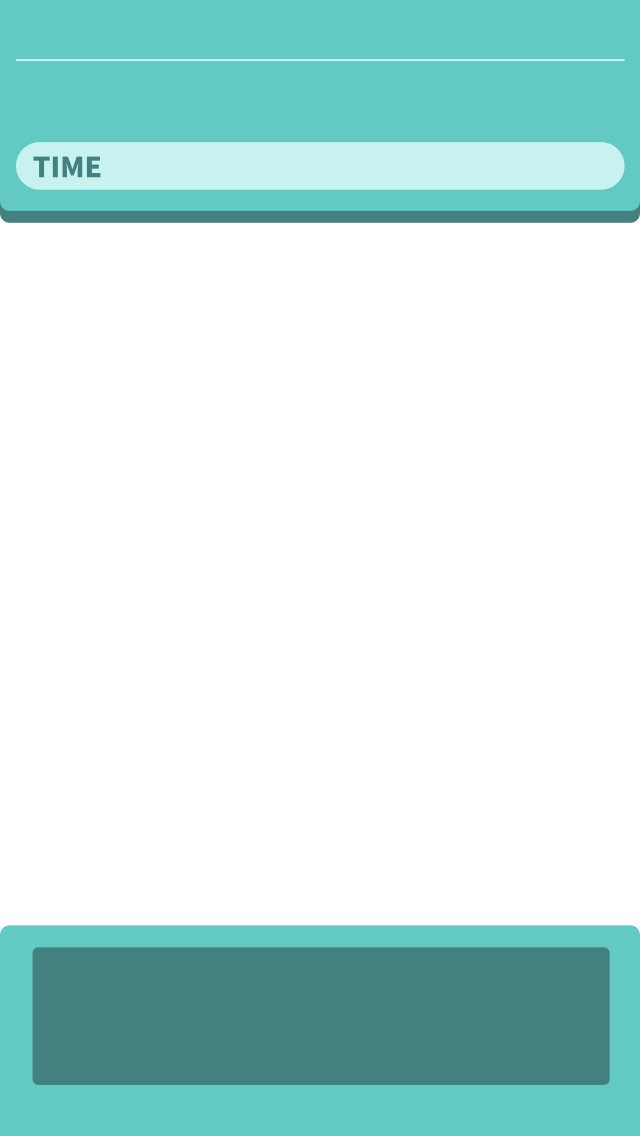
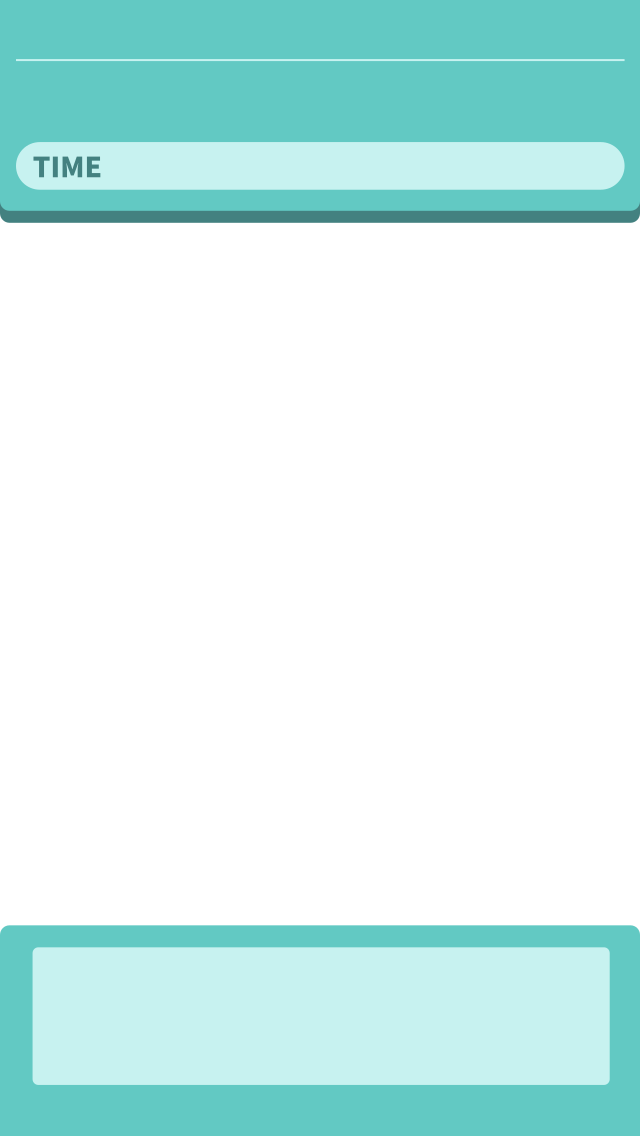
ブロック画像追加

Changed region(s): [[0.0312, 0.8319, 0.9688, 0.9551]]

diff --git a/unicks2/game.min.js b/unicks2/game.min.js
@@ -3098,7 +3098,7 @@ d?cc.ONE:cc.SRC_ALPHA;e.dst=cc.ONE_MINUS_SRC_ALPHA;break;case a.BlendMode.Additi
 b=b.updateWorldVertices(d,e);var r=this._worldTransform;d=r.a;e=r.b;for(var t=r.c,u=r.d,s=r.tx,r=r.ty,w=this._node.vertexZ,v=0;6>v;v++){var x=4>v?v%3:v-2,A=b[8*x],z=b[8*x+1],y=A*e+z*u+r,C=b[8*x+5]*p<<24|b[8*x+4]*k<<16|b[8*x+3]*n<<8|b[8*x+2]*m;f[h]=A*d+z*t+s;f[h+1]=y;f[h+2]=w;g[h+3]=C;f[h+4]=b[8*x+6];f[h+5]=b[8*x+7];h+=6}if(this._node._debugSlots)return f=a.RegionAttachment,[cc.p(b[f.X1],b[f.Y1]),cc.p(b[f.X2],b[f.Y2]),cc.p(b[f.X3],b[f.Y3]),cc.p(b[f.X4],b[f.Y4])]};b._uploadMeshAttachmentData=function(a,
 b,e,f,g,h){var k=this._worldTransform,m=k.a,n=k.b,p=k.c,r=k.d,t=k.tx,k=k.ty,u=this._node.vertexZ;a=a.updateWorldVertices(b,e);var s=this._displayedColor;b=s.r;e=s.g;for(var s=s.b,w=this._displayedOpacity,v=0,x=a.length;v<x;v+=8){var A=a[v],z=a[v+1],y=A*p+z*r+k,C=a[v+5]*w<<24|a[v+4]*s<<16|a[v+3]*e<<8|a[v+2]*b;f[h]=A*m+z*n+t;f[h+1]=y;f[h+2]=u;g[h+3]=C;f[h+4]=a[v+6];f[h+5]=a[v+7];h+=6}}})();cc.pool={_pool:{},_releaseCB:function(){this.release()},_autoRelease:function(a){var b=void 0===a._running?!1:!a._running;cc.director.getScheduler().schedule(this._releaseCB,a,0,0,0,b)},putInPool:function(a){var b=a.constructor.prototype.__pid;if(!b){var c={writable:!0,enumerable:!1,configurable:!0};c.value=ClassManager.getNewID();Object.defineProperty(a.constructor.prototype,"__pid",c)}this._pool[b]||(this._pool[b]=[]);a.retain&&a.retain();a.unuse&&a.unuse();this._pool[b].push(a)},hasObject:function(a){return(a=
 this._pool[a.prototype.__pid])&&0!==a.length?!0:!1},removeObject:function(a){var b=a.constructor.prototype.__pid;if(b&&(b=this._pool[b]))for(var c=0;c<b.length;c++)a===b[c]&&(a.release&&a.release(),b.splice(c,1))},getFromPool:function(a){if(this.hasObject(a)){var b=this._pool[a.prototype.__pid],c=Array.prototype.slice.call(arguments);c.shift();b=b.pop();b.reuse&&b.reuse.apply(b,c);cc.sys.isNative&&b.release&&this._autoRelease(b);return b}},drainAllPools:function(){for(var a in this._pool)for(var b=
-0;b<this._pool[a].length;b++){var c=this._pool[a][b];c.release&&c.release()}this._pool={}}};var res={HelloWorld_png:"res/HelloWorld.png",rect:"res/rect.png",round_rect:"res/round_rect.png",block:"res/block.png",circle:"res/circle.png",frame:"res/frame.png",star:"res/star.png",shine:"res/shine.png",keifont:"res/fonts/keifont.ttf"},g_resources=[],i;for(i in res)g_resources.push(res[i]);var HelloWorldLayer=cc.Layer.extend({sprite:null,ctor:function(){this._super();var a=cc.winSize,b=new cc.LabelTTF("Hello World","Arial",38);b.x=a.width/2;b.y=a.height/2+200;this.addChild(b,5);this.sprite=new cc.Sprite(res.HelloWorld_png);this.sprite.attr({x:a.width/2,y:a.height/2});this.addChild(this.sprite,0);return!0}}),HelloWorldScene=cc.Scene.extend({onEnter:function(){this._super();var a=new HelloWorldLayer;this.addChild(a)}});(function(){window.Util=function(){function a(){}a.setItem=function(a,c){return cc.sys.localStorage.setItem(a,c.toString())};a.getItem=function(a){a=cc.sys.localStorage.getItem(a);return null!=a&&""!==a?a:null};return a}()}).call(this);(function(){window.ui={};window.ui.Button=ccui.Scale9Sprite.extend({ctor:function(a,b,c,d,e){this.text=a;this.imgPath=b;this.onTouchBegin=null!=c?c:function(){};this.onTouchEnd=null!=d?d:function(){};null==e&&(e=!0);this._super(this.imgPath);this.enabled=!0;this.setCascadeOpacityEnabled(!0);this.enableClickAnimation=!0;this.mustCallOnTouchEnd=!1;this.attachEvent(e);this.fontSize=28;this.label=new ui.Label(this.text,this.fontSize);this.label.setPosition(this.width/2,this.height/2);this.addChild(this.label);
+0;b<this._pool[a].length;b++){var c=this._pool[a][b];c.release&&c.release()}this._pool={}}};var res={HelloWorld_png:"res/HelloWorld.png",rect:"res/rect.png",round_rect:"res/round_rect.png",block:"res/block.png",circle:"res/circle.png",frame:"res/frame.png",star:"res/star.png",shine:"res/shine.png",block_sun:"res/block_sun.png",block_moon:"res/block_moon.png",block_star:"res/block_star.png",block_heart:"res/block_heart.png",keifont:"res/fonts/keifont.ttf"},g_resources=[],i;for(i in res)g_resources.push(res[i]);var HelloWorldLayer=cc.Layer.extend({sprite:null,ctor:function(){this._super();var a=cc.winSize,b=new cc.LabelTTF("Hello World","Arial",38);b.x=a.width/2;b.y=a.height/2+200;this.addChild(b,5);this.sprite=new cc.Sprite(res.HelloWorld_png);this.sprite.attr({x:a.width/2,y:a.height/2});this.addChild(this.sprite,0);return!0}}),HelloWorldScene=cc.Scene.extend({onEnter:function(){this._super();var a=new HelloWorldLayer;this.addChild(a)}});(function(){window.Util=function(){function a(){}a.setItem=function(a,c){return cc.sys.localStorage.setItem(a,c.toString())};a.getItem=function(a){a=cc.sys.localStorage.getItem(a);return null!=a&&""!==a?a:null};return a}()}).call(this);(function(){window.ui={};window.ui.Button=ccui.Scale9Sprite.extend({ctor:function(a,b,c,d,e){this.text=a;this.imgPath=b;this.onTouchBegin=null!=c?c:function(){};this.onTouchEnd=null!=d?d:function(){};null==e&&(e=!0);this._super(this.imgPath);this.enabled=!0;this.setCascadeOpacityEnabled(!0);this.enableClickAnimation=!0;this.mustCallOnTouchEnd=!1;this.attachEvent(e);this.fontSize=28;this.label=new ui.Label(this.text,this.fontSize);this.label.setPosition(this.width/2,this.height/2);this.addChild(this.label);
 return this.autoResize()},autoResize:function(){var a,b;this.w_offset=20;this.h_offset=10;b=this.text.length*this.label.getFontSize()+2*this.w_offset;a=this.label.getFontSize()+2*this.h_offset;return this.setContentSize(b,a)},setAutoResize:function(a){return this.autoResize=a},setFontSize:function(a,b){null==b&&(b=!0);this.label.setFontSize(a);b&&this.autoResize();return this.label.setPosition(this.width/2,this.height/2)},setFontColor:function(a){return this.label.setColor(a)},setText:function(a){return this.label.setString(a)},
 setContentSize:function(a,b){var c;this._super(a,b);return null!=(c=this.label)?c.setPosition(this.width/2,this.height/2):void 0},setEnableClickAnimation:function(a){return this.enableClickAnimation=a},attachEvent:function(a){return cc.eventManager.addListener({event:cc.EventListener.TOUCH_ONE_BY_ONE,swallowTouches:a,onTouchBegan:this._onTouchBegin,onTouchEnded:this._onTouchEnd},this)},setMustCallOnTouchEnd:function(a){return this.mustCallOnTouchEnd=a},_onTouchBegin:function(a,b){var c,d;d=b.getCurrentTarget();
 if(!d.isVisible()||0===d.opacity||!d.enabled||null==(c=d.parent)||!c.visible)return!1;if(d.isTouch(a.getLocation())){d.enableClickAnimation&&(d.setOpacity(200),d.touching=!0);if(null!=d.onTouchBegin)try{d.onTouchBegin(a,b)}catch(e){cc.error(e)}return!0}return!1},_onTouchEnd:function(a,b){var c,d;d=b.getCurrentTarget();if(!d.isVisible()||0===d.opacity||!d.enabled||null==(c=d.parent)||!c.visible)return!1;d.enableClickAnimation&&d.touching&&(d.touching=!1,d.setOpacity(255));if(null!=d.onTouchEnd&&(d.mustCallOnTouchEnd||
@@ -3128,24 +3128,25 @@ window.ui.PixelImage=cc.DrawNode.extend({ctor:function(a,b,c){var d,e,f,g,h,k,m,
 cc.DrawNode.extend({ctor:function(a,b,c,d,e,f,g,h){this.target=c;this.text=d;this.fontSize=null!=e?e:29;this.fontColor=null!=f?f:cc.color(0,0,0);this.baloonColor=null!=g?g:cc.color(255,255,255);this.padding=null!=h?h:40;this._super();this.setPosition(a,b);d=this.text.split("\n");this.lineCount=d.length;a=this.lineLength=0;for(b=d.length;a<b;a++)c=d[a],this.lineLength=Math.max(this.lineLength,c.length);this.h=this.fontSize*this.lineCount+2*this.padding;this.w=Math.min(600,this.lineLength*this.fontSize+
 2*this.padding);this.drawBalloon();null!=this.target&&this.drawBeak();return this.addLabel()},drawBalloon:function(){var a;a=[cc.p(-this.w/2+7,-this.h/2),cc.p(-this.w/2,-this.h/2+7),cc.p(-this.w/2,this.h/2-7),cc.p(-this.w/2+7,this.h/2),cc.p(this.w/2-7,this.h/2),cc.p(this.w/2,this.h/2-7),cc.p(this.w/2,-this.h/2+7),cc.p(this.w/2-7,-this.h/2)];return this.drawPoly(a,this.baloonColor,0,cc.color(0,0,0))},drawBeak:function(){var a;a=this.target.y>this.y?[this.convertToNodeSpace(this.target),cc.p(-20,this.h/
 2),cc.p(20,this.h/2)]:[this.convertToNodeSpace(this.target),cc.p(-20,-this.h/2),cc.p(20,-this.h/2)];return this.drawPoly(a,this.baloonColor,0,cc.color(0,0,0))},addLabel:function(){var a;a=new ui.Label(0,0,this.text,this.fontSize,this.fontColor);a.setContentSize(640,960);this.addChild(a);return this.label=a}});window.ui.SlideShow=ui.TouchLayer.extend({ctor:function(a,b,c){var d,e;this.layers=a;this.baseColor=null!=b?b:cc.color(255,255,255,1);this.onFinished=null!=c?c:function(){};this._super(this.baseColor,
-null,null,this.next.bind(this));null!=this.layers&&(this.slide=this.layers.shift(),this.addChild(this.slide));d=this.layers;e=[];a=0;for(c=d.length;a<c;a++)b=d[a],e.push(b.retain());return e},next:function(){var a;null!=(a=this.slide)&&a.removeFromParent();if(0<this.layers.length)return this.slide=this.layers.shift(),this.addChild(this.slide);this.onFinished();return this.removeFromParent()}})}).call(this);(function(){var a=[].indexOf||function(a){for(var c=0,d=this.length;c<d;c++)if(c in this&&this[c]===a)return c;return-1};window.GameScene=cc.Scene.extend({ctor:function(){this._super();return this.addChild(new GameLayer)}});window.GameLayer=cc.Layer.extend({Const:{BLOCK_SPEED:450,BLOCK_SIZE:90,COL_COUNT:6,ROW_COUNT:6,TYPE_SUN:0,TYPE_MOON:1,TYPE_STAR:2,TYPE_HEART:3,MAX_TIME:60,HIGH_SCORE_TEXT:"HIGHSCORE: "},ctor:function(){this._super();return this.initialize()},initialize:function(){this.isGameOver=
-!0;this.blocks=[];this.time=this.Const.MAX_TIME;this.score=0;this.scoreRate=1;this.types=[0,1,2,3];this.specialPoints=[0,0,0,0];this.specialButtons=[];this.colors=[cc.color(255,120,120),cc.color(200,200,200),cc.color(255,255,160),cc.color(255,220,220)];this.backgroundLayer=this.createBackgroundLayer();this.addChild(this.backgroundLayer);this.objectLayer=this.createObjectLayer();this.addChild(this.objectLayer);this.hudLayer=this.createHudLayer();this.addChild(this.hudLayer);this.field=new Field(this.Const.COL_COUNT,
-this.Const.ROW_COUNT);this.addSpecialButtons();this.addScoreLabel();this.addHighScoreLabel();this.addTimer();this.updateBlocks();this.startLayer=this.createStartLayer();return this.addChild(this.startLayer)},createBackgroundLayer:function(){return new cc.LayerColor(cc.color(30,30,30))},createObjectLayer:function(){return new cc.Layer},createHudLayer:function(){var a,c;c=new cc.Layer;a=new cc.Sprite(res.frame);a.setPosition(cc.winSize.width/2,cc.winSize.height/2);c.addChild(a);return c},createStartLayer:function(){var a,
+null,null,this.next.bind(this));null!=this.layers&&(this.slide=this.layers.shift(),this.addChild(this.slide));d=this.layers;e=[];a=0;for(c=d.length;a<c;a++)b=d[a],e.push(b.retain());return e},next:function(){var a;null!=(a=this.slide)&&a.removeFromParent();if(0<this.layers.length)return this.slide=this.layers.shift(),this.addChild(this.slide);this.onFinished();return this.removeFromParent()}})}).call(this);(function(){var a=[].indexOf||function(a){for(var c=0,d=this.length;c<d;c++)if(c in this&&this[c]===a)return c;return-1};window.GameScene=cc.Scene.extend({ctor:function(){this._super();return this.addChild(new GameLayer)}});window.GameLayer=cc.Layer.extend({Const:{BLOCK_SPEED:450,BLOCK_SIZE:90,COL_COUNT:6,ROW_COUNT:6,TYPE_SUN:0,TYPE_MOON:1,TYPE_STAR:2,TYPE_HEART:3,MAX_TIME:60,HIGH_SCORE_TEXT:"HighScore: "},ctor:function(){this._super();return this.initialize()},initialize:function(){this.isGameOver=
+!0;this.blocks=[];this.time=this.Const.MAX_TIME;this.score=0;this.scoreRate=1;this.types=[0,1,2,3];this.specialPoints=[0,0,0,0];this.specialButtons=[];this.blockImages=[res.block_sun,res.block_moon,res.block_star,res.block_heart];this.backgroundLayer=this.createBackgroundLayer();this.addChild(this.backgroundLayer);this.objectLayer=this.createObjectLayer();this.addChild(this.objectLayer);this.hudLayer=this.createHudLayer();this.addChild(this.hudLayer);this.field=new Field(this.Const.COL_COUNT,this.Const.ROW_COUNT);
+this.addSpecialButtons();this.addScoreLabel();this.addHighScoreLabel();this.addTimer();this.updateBlocks();this.startLayer=this.createStartLayer();return this.addChild(this.startLayer)},createBackgroundLayer:function(){return new cc.LayerColor(cc.color(30,60,60))},createObjectLayer:function(){return new cc.Layer},createHudLayer:function(){var a,c;c=new cc.Layer;a=new cc.Sprite(res.frame);a.setPosition(cc.winSize.width/2,cc.winSize.height/2);c.addChild(a);return c},createStartLayer:function(){var a,
 c;c=new ui.TouchLayer(cc.color(0,0,0,255),null,null,this.onTouchStartLayer.bind(this));a=new cc.LayerColor(cc.color(0,0,0,128),640,200);a.setPosition(0,(cc.winSize.height-a.height)/2);c.addChild(a);a=new ui.Label("Tap to start",50,cc.color(255,255,255));a.setPosition(320,568);a.runAction(cc.repeatForever(cc.sequence(cc.hide(),cc.delayTime(0.2),cc.show(),cc.delayTime(0.8))));c.addChild(a);c.runAction(cc.fadeTo(1,0));return c},addScoreLabel:function(){var a;a=new ui.Label("0",50,cc.color(255,255,255),
 2);a.setPosition(600,1030);this.hudLayer.addChild(a);return this.scoreLabel=a},addHighScoreLabel:function(){var a;this.highScore=Util.getItem("highscore");this.highScore=Number(this.highScore);a=new ui.Label(this.Const.HIGH_SCORE_TEXT+this.highScore,32,cc.color(255,255,255),1);a.setPosition(30,1100);this.hudLayer.addChild(a);return this.highScoreLabel=a},addTimer:function(){var a;a=new ccui.Scale9Sprite(res.rect);a.setColor(cc.color(0,200,200));a.setContentSize(480,16);a.setAnchorPoint(0,0.5);a.setPosition(120,
-970);this.hudLayer.addChild(a);return this.timer=a},updateScoreLabel:function(){this.scoreLabel.string=this.score;this.scoreLabel.stopAllActions();return this.scoreLabel.runAction(cc.sequence(cc.scaleTo(0.05,1.2),cc.scaleTo(0.5,1)))},addSpecialButtons:function(){var a,c,d,e,f,g,h;g=this.types;h=[];c=d=0;for(e=g.length;d<e;c=++d)f=g[c],a=new ui.ButtonSprite(res.block,null,this.onTouchSpecialButton.bind(this)),a.setColor(this.colors[f]),a.setOpacity(180),c=140+120*c,a.setPosition(c,120),a.type=f,a.setEnabled(!1),
+970);this.hudLayer.addChild(a);return this.timer=a},updateScoreLabel:function(){this.scoreLabel.string=this.score;this.scoreLabel.stopAllActions();return this.scoreLabel.runAction(cc.sequence(cc.scaleTo(0.05,1.2),cc.scaleTo(0.5,1)))},addSpecialButtons:function(){var a,c,d,e,f,g,h;g=this.types;h=[];c=d=0;for(e=g.length;d<e;c=++d)f=g[c],a=this.blockImages[f],a=new ui.ButtonSprite(a,null,this.onTouchSpecialButton.bind(this)),a.setOpacity(180),c=140+120*c,a.setPosition(c,120),a.type=f,a.setEnabled(!1),
 this.hudLayer.addChild(a),this.specialButtons.push(a),f=new cc.Sprite(res.block),f.setColor(cc.color(0,0,0)),f=new cc.Sprite(res.round_rect),f.setColor(cc.color(0,0,0)),f.setOpacity(128),f.setAnchorPoint(0.5,0),f.setPosition(a.width/2,0),a.addChild(f),h.push(a.progressTimer=f);return h},updateBlocks:function(){var a,c,d,e,f,g,h;f=this.field.getCells();g=[];d=0;for(e=f.length;d<e;d++)h=f[d],g.push(function(){var d,e,f;f=[];d=0;for(e=h.length;d<e;d++)c=h[d],c.moving=!0,null==c.block?(a=this.createBlock(c.type),
 a.setPosition(this.getStartPosition(c.ix,c.iy)),this.objectLayer.addChild(a),this.blocks.push(a),c.block=a):a=c.block,a.ix=c.ix,a.iy=c.iy,a.stopAllActions(),f.push(a.runAction(this.createBlockMoveAnimation(a)));return f}.call(this));return g},updateSpecialButtons:function(){var a,c,d,e,f,g;cc.log(this.specialPoints);f=this.specialButtons;g=[];c=0;for(d=f.length;c<d;c++)a=f[c],e=Math.max(0,100-this.specialPoints[a.type]/3),a.progressTimer.setScaleY(e/100),0>=e&&!a.getEnabled()?(a.setEnabled(!0),a.setOpacity(255),
-g.push(a.runAction(cc.sequence(cc.scaleTo(0.05,1.2),cc.scaleTo(0.2,1))))):g.push(void 0);return g},createBlock:function(a){var c;c=new ui.ButtonSprite(res.block,this.onTouchBlock.bind(this));c.setContentSize(this.Const.BLOCK_SIZE,this.Const.BLOCK_SIZE);c.setColor(this.colors[a]);return c},getStartPosition:function(a,c){return cc.p(90+a*(this.Const.BLOCK_SIZE+2),650+c*(this.Const.BLOCK_SIZE+2))},getEndPosition:function(a,c){return cc.p(90+a*(this.Const.BLOCK_SIZE+2),330+c*(this.Const.BLOCK_SIZE+2))},
-createBlockMoveAnimation:function(a){var c,d;d=this.getEndPosition(a.ix,a.iy);c=this.Const.BLOCK_SPEED;c=Math.abs(a.getPosition().y-d.y)/c;return cc.sequence(cc.moveTo(c,d),cc.callFunc(this.onFinishBlockMove.bind(this),a))},onTouchStartLayer:function(a,c){this.onStartGame();return c.getCurrentTarget().removeFromParent()},onStartGame:function(){this.isGameOver=!1;return this.schedule(this.tickTimer.bind(this),1)},tickTimer:function(){if(0>=this.time)this.onFinishGame();else return this.time-=1,this.updateTimer()},
-updateTimer:function(){var a;a=this.time/this.Const.MAX_TIME;this.timer.stopAllActions();return this.timer.runAction(cc.scaleTo(1,a,1))},onFinishGame:function(){this.isGameOver=!0;this.score>this.highScore&&(Util.setItem("highscore",this.score),this.highScoreLabel.string=this.Const.HIGH_SCORE_TEXT+this.score);this.unscheduleAllCallbacks();return this.addResultLayer()},addResultLayer:function(){var a,c;c=new cc.Layer;a=new cc.LayerColor(cc.color(0,0,0,128),640,200);a.setPosition(0,(cc.winSize.height-
-a.height)/2);c.addChild(a);a=new ui.Label("Time's up!",50);a.setPosition(320,568);c.addChild(a);a=new ui.Button("Retry",res.round_rect,null,this.onTouchRetryButton.bind(this));a.setPosition(320,380);a.setContentSize(200,100);a.setColor(cc.color(98,201,195));c.addChild(a);return this.addChild(c)},onTouchRetryButton:function(a,c){return this.retry()},retry:function(){return cc.director.runScene(new GameScene)},onTouchBlock:function(a,c){var d;if(!this.isGameOver&&(d=c.getCurrentTarget(),d=this.field.getSelection(d.ix,
-d.iy),2<=d.length))return this.deleteBlosks(d),this.updateSpecialButtons()},deleteBlosks:function(a){var c,d,e;c=a.length;this.score+=this.calcScore(c);this.specialPoints[a[0].type]+=this.calcSpecialPoint(c);this.updateScoreLabel();d=0;for(e=a.length;d<e;d++)c=a[d],this.addRemoveEffect(c.type,c.block.getPosition()),c.block.removeFromParent(),c.block=null;this.field["delete"](a);this.field.fill();return this.updateBlocks()},addRemoveEffect:function(a,c){cc.log(a);cc.log(c);switch(a){case this.Const.TYPE_SUN:return this.addSunRemoveEffect(c);
-case this.Const.TYPE_MOON:return this.addMoonRemoveEffect(c);case this.Const.TYPE_STAR:return this.addStarRemoveEffect(c);case this.Const.TYPE_HEART:return this.addHeartRemoveEffect(c)}},addSunRemoveEffect:function(a){var c;c=new cc.Sprite(res.block);c.setPosition(a);c.runAction(cc.sequence(cc.spawn(cc.scaleTo(0.3,1.3),cc.fadeOut(0.3)),cc.callFunc(c.removeFromParent,c)));return this.objectLayer.addChild(c)},addMoonRemoveEffect:function(a){return this.addSunRemoveEffect(a)},addStarRemoveEffect:function(a){return this.addSunRemoveEffect(a)},
-addHeartRemoveEffect:function(a){return this.addSunRemoveEffect(a)},calcScore:function(a){return 10*Math.pow(a,3)*this.scoreRate},calcSpecialPoint:function(a){return a*a},onFinishBlockMove:function(a){return this.field.getCell(a.ix,a.iy).moving=!1},onTouchSpecialButton:function(a,c){var d;if(!this.isGameOver){d=c.getCurrentTarget();d.setEnabled(!1);d.setOpacity(180);d=d.type;this.specialPoints[d]=0;switch(d){case this.Const.TYPE_SUN:this.time+=10;this.updateTimer();break;case this.Const.TYPE_MOON:this.scoreRate=
-2;break;case this.Const.TYPE_STAR:this.deleteBlosks(this.field.getCellsByType(this.Const.TYPE_STAR));break;case this.Const.TYPE_HEART:d=[this.Const.TYPE_SUN,this.Const.TYPE_MOON,this.Const.TYPE_STAR],d=d[Math.floor(Math.random()*d.length)],this.changeBlockType(d,this.Const.TYPE_HEART)}return this.updateSpecialButtons()}},changeBlockType:function(a,c){var d,e,f,g,h,k,m;h=this.field.getCells();k=[];f=0;for(g=h.length;f<g;f++)m=h[f],k.push(function(){var f,g,h;h=[];f=0;for(g=m.length;f<g;f++)e=m[f],
-e.type===a?(e.type=c,d=this.createBlock(c),e.block.setTexture(d.getTexture()),h.push(e.block.setColor(d.getColor()))):h.push(void 0);return h}.call(this));return k}});window.Field=function(){function b(a,b){this.col=null!=a?a:6;this.row=null!=b?b:6;this.cells=[];this.selections=[];this.fill()}b.prototype.fill=function(){var a,b,e,f,g,h;g=[];b=e=0;for(f=this.col;0<=f?e<f:e>f;b=0<=f?++e:--e)null==this.cells[b]&&(this.cells[b]=[]),h=this.cells[b],g.push(function(){var e;for(e=[];h.length<this.row;)a=
-this.createRandomCell(),a.ix=b,a.iy=h.length,e.push(this.cells[b].push(a));return e}.call(this));return g};b.prototype["delete"]=function(a){var b,e,f,g,h,k,m,n;e=0;for(f=a.length;e<f;e++)b=a[e],b.enabled=!1;k=[];m=this.cells;a=e=0;for(f=m.length;e<f;a=++e)for(n=m[a],k[a]=[],b=h=0,g=n.length;h<g;b=++h)b=n[b],b.enabled&&(b.ix=a,b.iy=k[a].length,k[a].push(b));return this.cells=k};b.prototype.createRandomCell=function(){return{type:Math.floor(4*Math.random()),enabled:!0,moving:!0}};b.prototype.getCellsByType=
-function(a){var b,e,f,g,h,k,m,n;e=[];m=this.cells;f=0;for(h=m.length;f<h;f++)for(n=m[f],g=0,k=n.length;g<k;g++)b=n[g],b.type===a&&e.push(b);return e};b.prototype.getSelection=function(a,b){var e;this.selection=[];e=this.getCell(a,b);this.scan(e.ix,e.iy,e.type);return this.selection};b.prototype.scan=function(b,d,e){var f;if(!(0>b||b>=this.col||0>d||d>=this.row)&&(f=this.getCell(b,d),!f.moving&&f.type===e&&0>a.call(this.selection,f)))return this.selection.push(f),this.scan(b+1,d,f.type),this.scan(b-
-1,d,f.type),this.scan(b,d+1,f.type),this.scan(b,d-1,f.type)};b.prototype.getCell=function(a,b){return this.cells[a][b]};b.prototype.getCells=function(){return this.cells};return b}();window.Block=cc.Sprite.extend({Const:{CELL_TYPE_SUM:0,CELL_TYPE_MOON:1,CELL_TYPE_STAR:2,CELL_TYPE_HEART:3},ctor:function(){return this._super()},getClone:function(){},onExit:function(){return this._super()},createRemoveEffect:function(){}})}).call(this);cc.game.onStart=function(){var a=cc.sys;!a.isNative&&document.getElementById("cocosLoading")&&document.body.removeChild(document.getElementById("cocosLoading"));cc.view.enableRetina(a.os===a.OS_IOS?!0:!1);a.isMobile&&a.browserType!==a.BROWSER_TYPE_BAIDU&&a.browserType!==a.BROWSER_TYPE_WECHAT&&cc.view.enableAutoFullScreen(!0);cc.view.adjustViewPort(!0);cc.view.setDesignResolutionSize(640,1136,cc.ResolutionPolicy.SHOW_ALL);cc.view.resizeWithBrowserSize(!0);cc.LoaderScene.preload(g_resources,function(){cc.director.runScene(new GameScene)},
+g.push(a.runAction(cc.sequence(cc.scaleTo(0.05,1.2),cc.scaleTo(0.2,1))))):g.push(void 0);return g},createBlock:function(a){a=new ui.ButtonSprite(this.blockImages[a],this.onTouchBlock.bind(this));a.setContentSize(this.Const.BLOCK_SIZE,this.Const.BLOCK_SIZE);return a},getStartPosition:function(a,c){return cc.p(90+a*(this.Const.BLOCK_SIZE+2),650+c*(this.Const.BLOCK_SIZE+2))},getEndPosition:function(a,c){return cc.p(90+a*(this.Const.BLOCK_SIZE+2),330+c*(this.Const.BLOCK_SIZE+2))},createBlockMoveAnimation:function(a){var c,
+d;d=this.getEndPosition(a.ix,a.iy);c=this.Const.BLOCK_SPEED;c=Math.abs(a.getPosition().y-d.y)/c;return cc.sequence(cc.moveTo(c,d),cc.callFunc(this.onFinishBlockMove.bind(this),a))},onTouchStartLayer:function(a,c){this.onStartGame();return c.getCurrentTarget().removeFromParent()},onStartGame:function(){this.isGameOver=!1;return this.schedule(this.tickTimer.bind(this),1)},tickTimer:function(){if(0>=this.time)this.onFinishGame();else return this.time-=1,this.updateTimer()},updateTimer:function(){var a;
+a=this.time/this.Const.MAX_TIME;this.timer.stopAllActions();return this.timer.runAction(cc.scaleTo(1,a,1))},onFinishGame:function(){this.isGameOver=!0;this.score>this.highScore&&(Util.setItem("highscore",this.score),this.highScoreLabel.string=this.Const.HIGH_SCORE_TEXT+this.score);this.unscheduleAllCallbacks();return this.addResultLayer()},addResultLayer:function(){var a,c,d;c=new cc.Layer;a=new cc.LayerColor(cc.color(0,0,0,128),640,200);a.setPosition(0,(cc.winSize.height-a.height)/2);c.addChild(a);
+a=new ui.Label("Time's up!",50);a.setPosition(320,568);c.addChild(a);a=new ui.Button("Retry",res.round_rect,null,this.onTouchRetryButton.bind(this));a.setPosition(320,380);a.setContentSize(200,100);a.setColor(cc.color(98,201,195));d=new ccui.Scale9Sprite(res.round_rect);d.setPosition(a.width/2,a.height/2-10);d.setColor(cc.color(67,128,128));d.setContentSize(200,100);a.addChild(d,-1);c.addChild(a);return this.addChild(c)},onTouchRetryButton:function(a,c){return this.retry()},retry:function(){return cc.director.runScene(new GameScene)},
+onTouchBlock:function(a,c){var d;if(!this.isGameOver&&(d=c.getCurrentTarget(),d=this.field.getSelection(d.ix,d.iy),2<=d.length))return this.deleteBlosks(d),this.updateSpecialButtons()},deleteBlosks:function(a){var c,d,e;c=a.length;this.score+=this.calcScore(c);this.specialPoints[a[0].type]+=this.calcSpecialPoint(c);this.updateScoreLabel();d=0;for(e=a.length;d<e;d++)c=a[d],this.addRemoveEffect(c.type,c.block.getPosition()),c.block.removeFromParent(),c.block=null;this.field["delete"](a);this.field.fill();
+return this.updateBlocks()},addRemoveEffect:function(a,c){cc.log(a);cc.log(c);switch(a){case this.Const.TYPE_SUN:return this.addSunRemoveEffect(c);case this.Const.TYPE_MOON:return this.addMoonRemoveEffect(c);case this.Const.TYPE_STAR:return this.addStarRemoveEffect(c);case this.Const.TYPE_HEART:return this.addHeartRemoveEffect(c)}},addSunRemoveEffect:function(a){var c;c=new cc.Sprite(res.block);c.setPosition(a);c.runAction(cc.sequence(cc.spawn(cc.scaleTo(0.3,1.3),cc.fadeOut(0.3)),cc.callFunc(c.removeFromParent,
+c)));return this.objectLayer.addChild(c)},addMoonRemoveEffect:function(a){return this.addSunRemoveEffect(a)},addStarRemoveEffect:function(a){return this.addSunRemoveEffect(a)},addHeartRemoveEffect:function(a){return this.addSunRemoveEffect(a)},calcScore:function(a){return 10*Math.pow(a,3)*this.scoreRate},calcSpecialPoint:function(a){return a*a},onFinishBlockMove:function(a){return this.field.getCell(a.ix,a.iy).moving=!1},onTouchSpecialButton:function(a,c){var d;if(!this.isGameOver){d=c.getCurrentTarget();
+d.setEnabled(!1);d.setOpacity(180);d=d.type;this.specialPoints[d]=0;switch(d){case this.Const.TYPE_SUN:this.time+=10;this.updateTimer();break;case this.Const.TYPE_MOON:this.scoreRate=2;break;case this.Const.TYPE_STAR:this.deleteBlosks(this.field.getCellsByType(this.Const.TYPE_STAR));break;case this.Const.TYPE_HEART:d=[this.Const.TYPE_SUN,this.Const.TYPE_MOON,this.Const.TYPE_STAR],d=d[Math.floor(Math.random()*d.length)],this.changeBlockType(d,this.Const.TYPE_HEART)}return this.updateSpecialButtons()}},
+changeBlockType:function(a,c){var d,e,f,g,h,k,m;h=this.field.getCells();k=[];f=0;for(g=h.length;f<g;f++)m=h[f],k.push(function(){var f,g,h;h=[];f=0;for(g=m.length;f<g;f++)e=m[f],e.type===a?(e.type=c,d=this.createBlock(c),e.block.setTexture(d.getTexture()),h.push(e.block.setColor(d.getColor()))):h.push(void 0);return h}.call(this));return k}});window.Field=function(){function b(a,b){this.col=null!=a?a:6;this.row=null!=b?b:6;this.cells=[];this.selections=[];this.fill()}b.prototype.fill=function(){var a,
+b,e,f,g,h;g=[];b=e=0;for(f=this.col;0<=f?e<f:e>f;b=0<=f?++e:--e)null==this.cells[b]&&(this.cells[b]=[]),h=this.cells[b],g.push(function(){var e;for(e=[];h.length<this.row;)a=this.createRandomCell(),a.ix=b,a.iy=h.length,e.push(this.cells[b].push(a));return e}.call(this));return g};b.prototype["delete"]=function(a){var b,e,f,g,h,k,m,n;e=0;for(f=a.length;e<f;e++)b=a[e],b.enabled=!1;k=[];m=this.cells;a=e=0;for(f=m.length;e<f;a=++e)for(n=m[a],k[a]=[],b=h=0,g=n.length;h<g;b=++h)b=n[b],b.enabled&&(b.ix=
+a,b.iy=k[a].length,k[a].push(b));return this.cells=k};b.prototype.createRandomCell=function(){return{type:Math.floor(4*Math.random()),enabled:!0,moving:!0}};b.prototype.getCellsByType=function(a){var b,e,f,g,h,k,m,n;e=[];m=this.cells;f=0;for(h=m.length;f<h;f++)for(n=m[f],g=0,k=n.length;g<k;g++)b=n[g],b.type===a&&e.push(b);return e};b.prototype.getSelection=function(a,b){var e;this.selection=[];e=this.getCell(a,b);this.scan(e.ix,e.iy,e.type);return this.selection};b.prototype.scan=function(b,d,e){var f;
+if(!(0>b||b>=this.col||0>d||d>=this.row)&&(f=this.getCell(b,d),!f.moving&&f.type===e&&0>a.call(this.selection,f)))return this.selection.push(f),this.scan(b+1,d,f.type),this.scan(b-1,d,f.type),this.scan(b,d+1,f.type),this.scan(b,d-1,f.type)};b.prototype.getCell=function(a,b){return this.cells[a][b]};b.prototype.getCells=function(){return this.cells};return b}();window.Block=cc.Sprite.extend({Const:{CELL_TYPE_SUM:0,CELL_TYPE_MOON:1,CELL_TYPE_STAR:2,CELL_TYPE_HEART:3},ctor:function(){return this._super()},
+getClone:function(){},onExit:function(){return this._super()},createRemoveEffect:function(){}})}).call(this);cc.game.onStart=function(){var a=cc.sys;!a.isNative&&document.getElementById("cocosLoading")&&document.body.removeChild(document.getElementById("cocosLoading"));cc.view.enableRetina(a.os===a.OS_IOS?!0:!1);a.isMobile&&a.browserType!==a.BROWSER_TYPE_BAIDU&&a.browserType!==a.BROWSER_TYPE_WECHAT&&cc.view.enableAutoFullScreen(!0);cc.view.adjustViewPort(!0);cc.view.setDesignResolutionSize(640,1136,cc.ResolutionPolicy.SHOW_ALL);cc.view.resizeWithBrowserSize(!0);cc.LoaderScene.preload(g_resources,function(){cc.director.runScene(new GameScene)},
 this)};cc.game.run();
